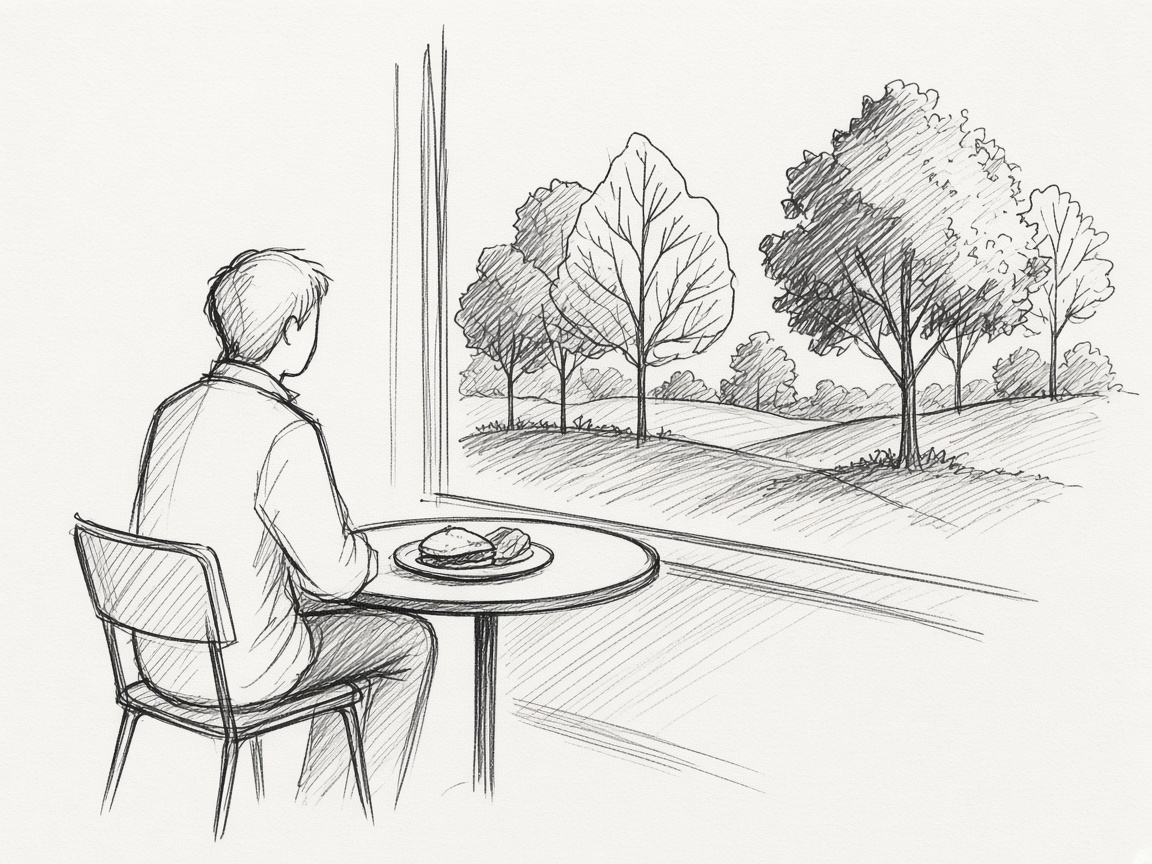
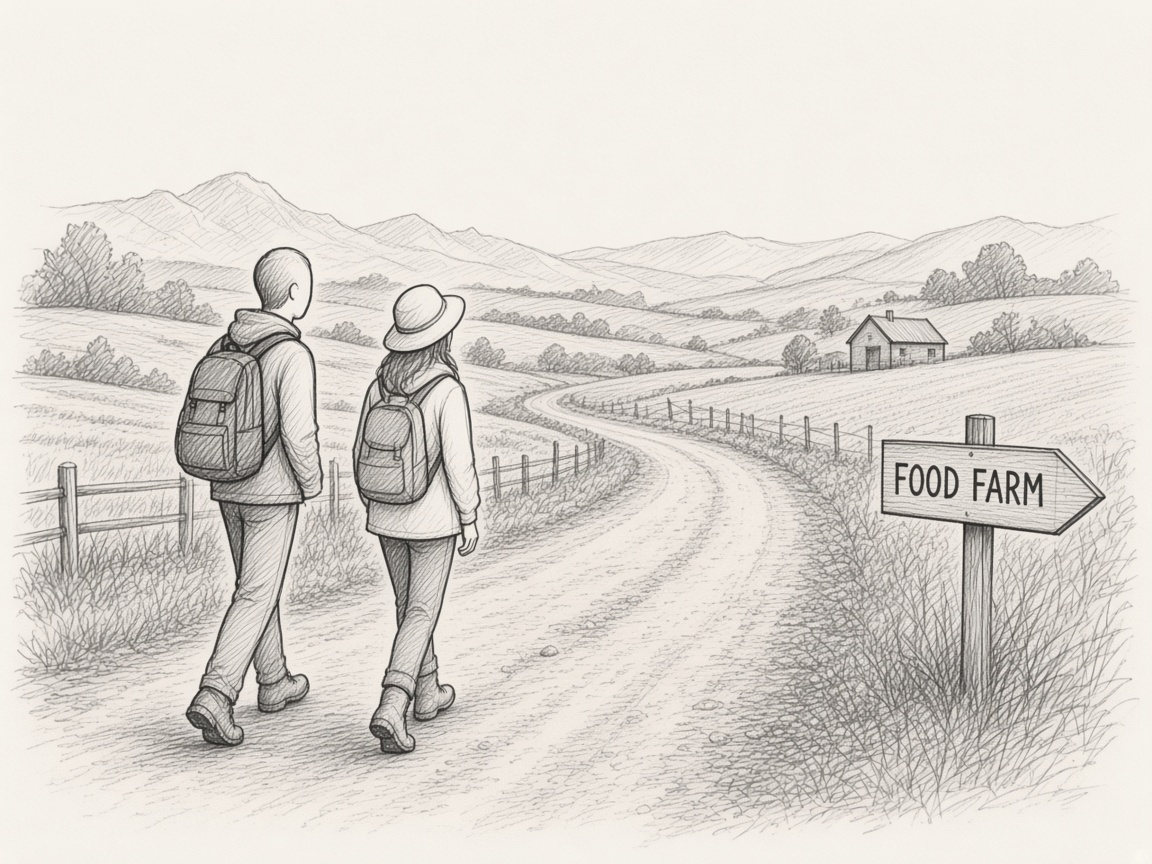
Replace the tourist opener with backpackers on a rural road.
The walk toward a farm sign matches discovering food along the journey.

diff --git a/index.html b/index.html
@@ -288,7 +288,7 @@
           <p class="aside-line">I visit new places and explore local food, restaurants, and traditions.</p>
         </div>
         <figure>
-          <img src="images/tourist-open.jpg" alt="A visitor at a small table by a window, with a simple plate and a pale northern landscape outside.">
+          <img src="images/tourist-open.jpg" alt="Two backpackers walking a rural road toward a farm sign, with rolling hills behind.">
         </figure>
       </section>
 
